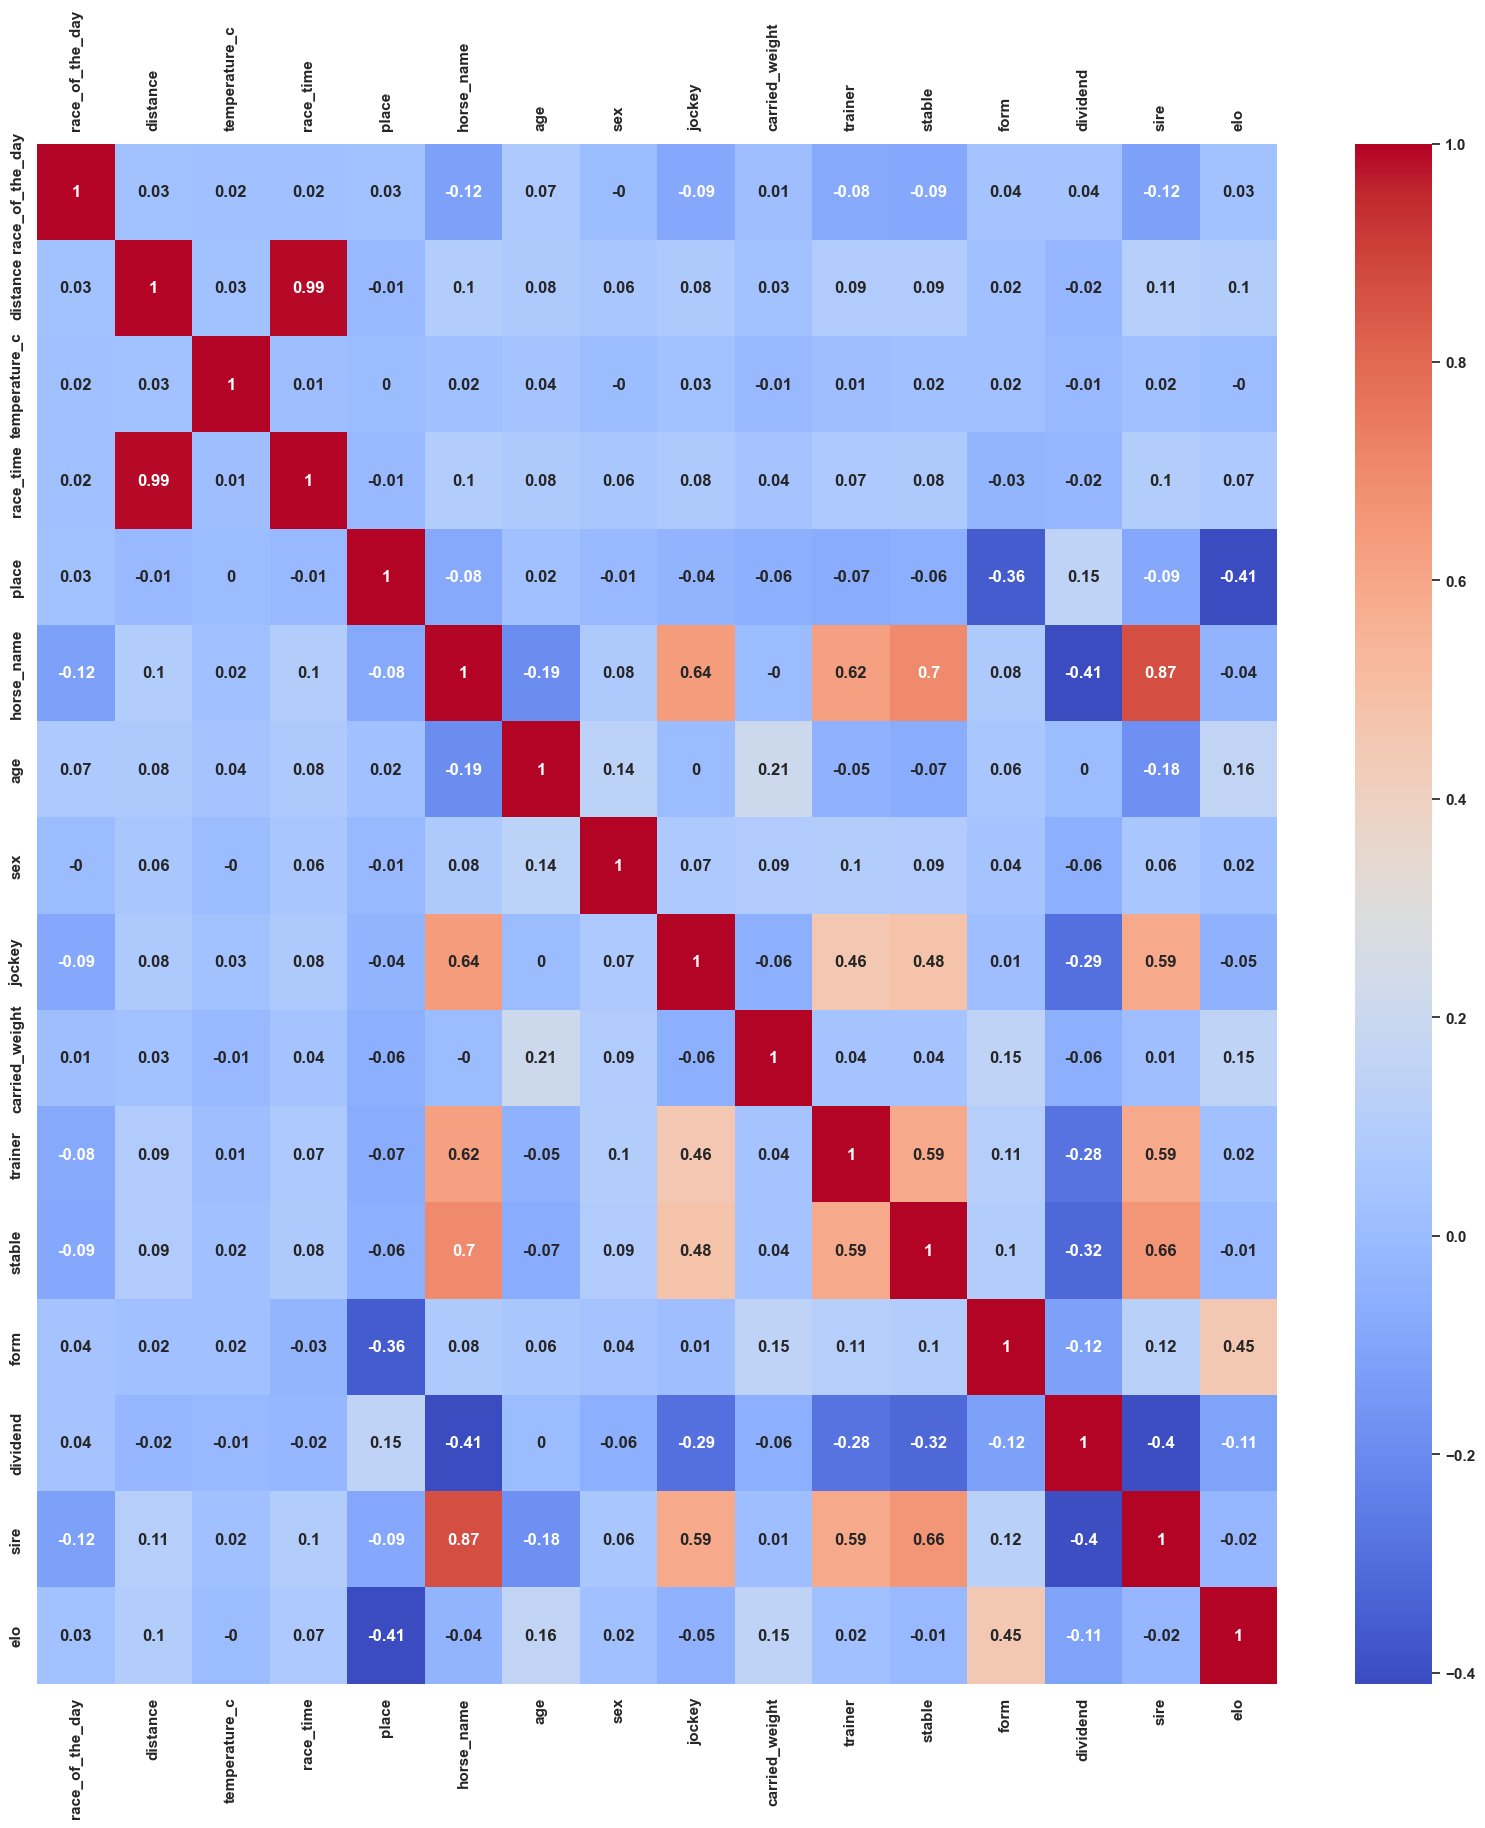
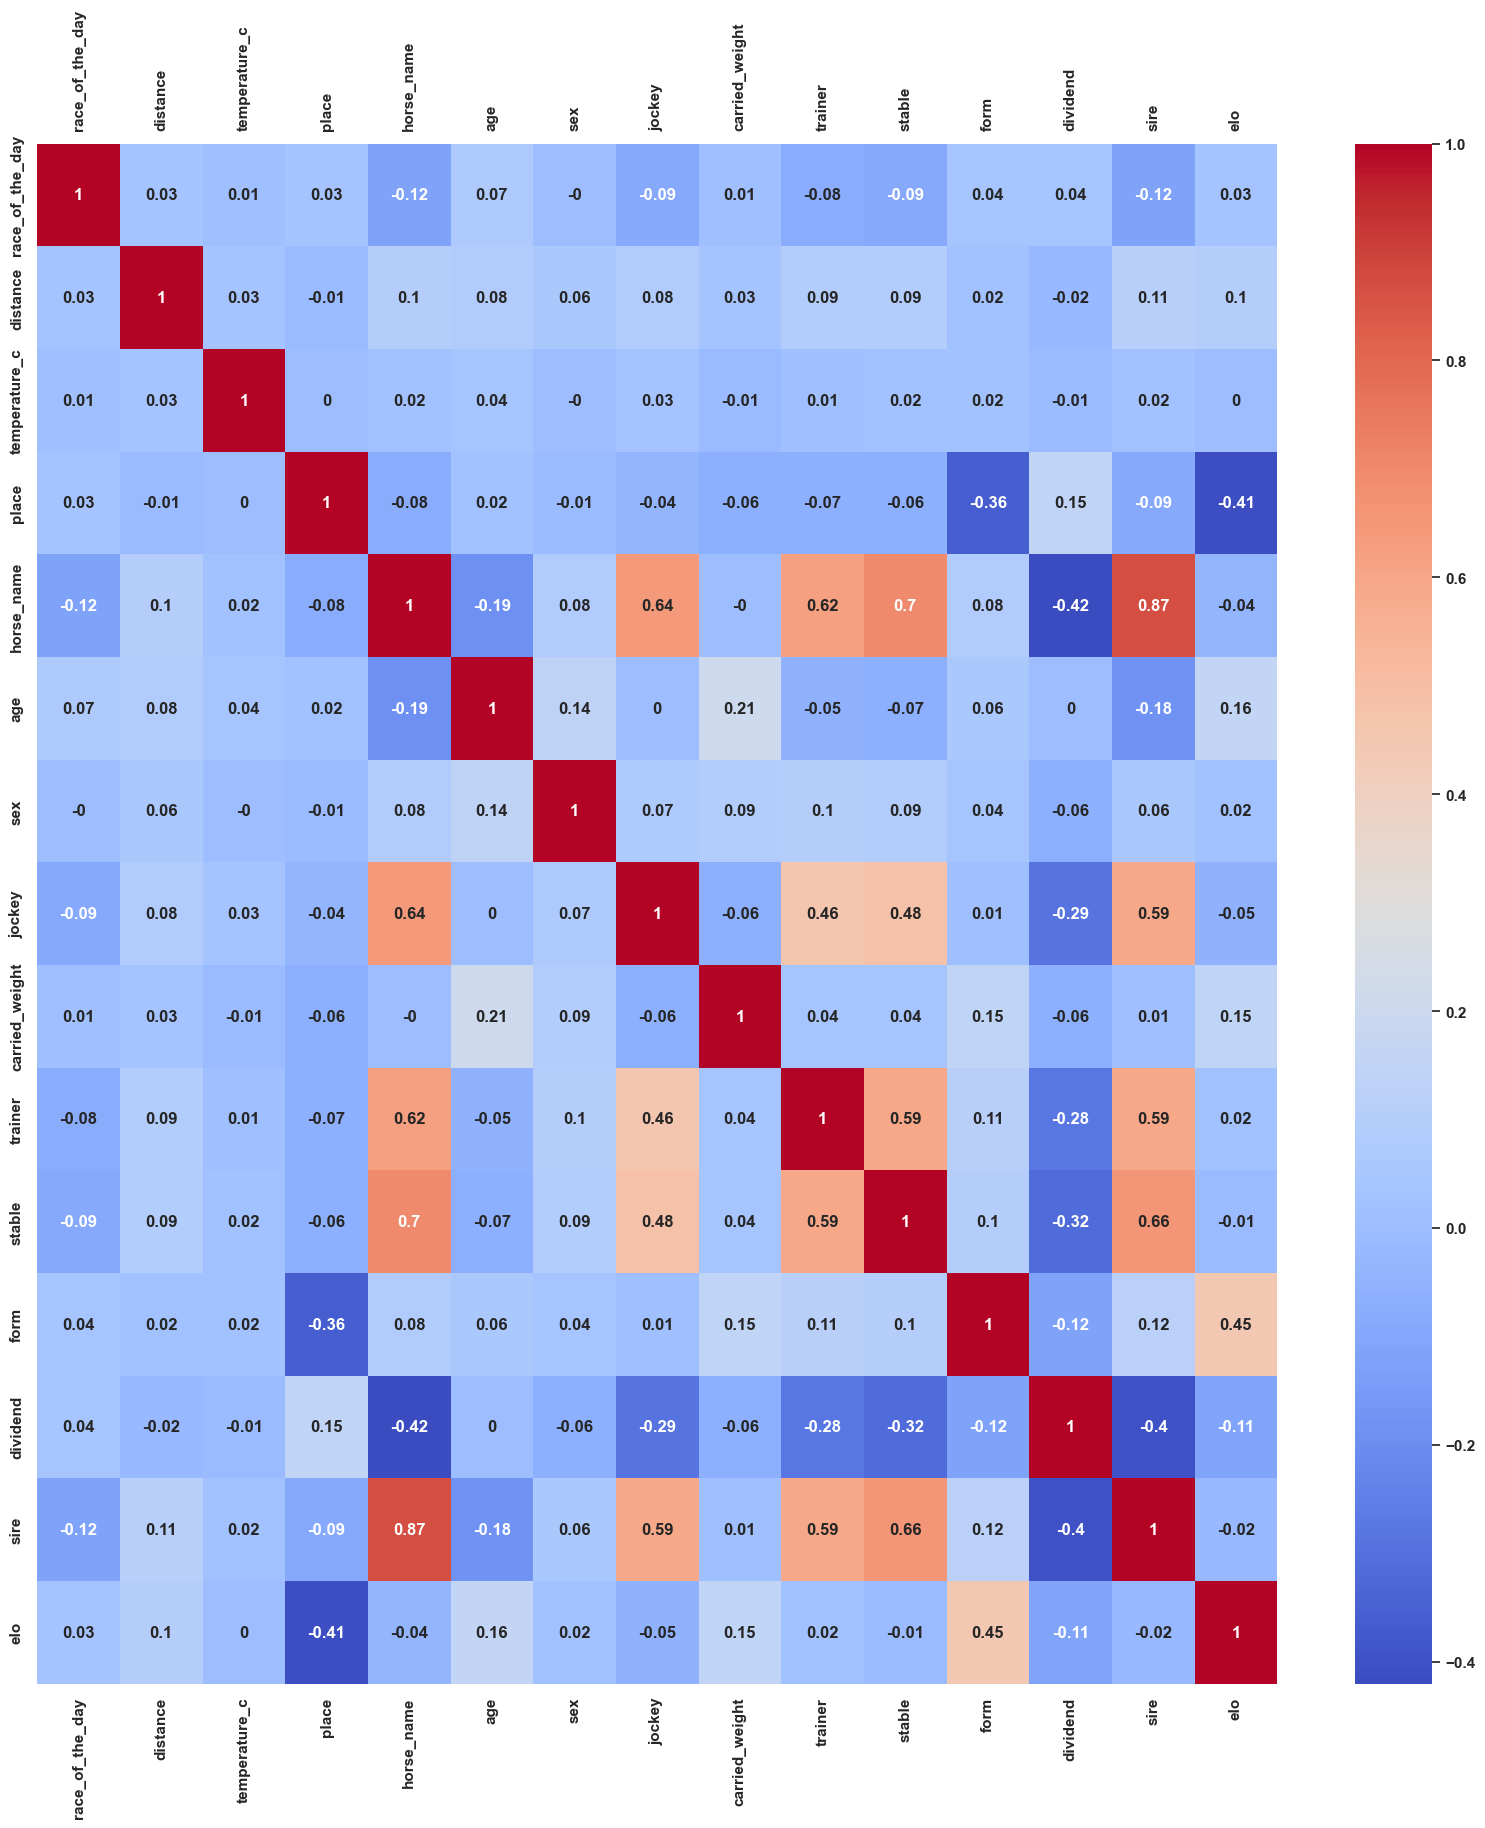
Changing to classification

diff --git a/preprocessing.py b/preprocessing.py
@@ -11,7 +11,8 @@ def preprocess_data(data) -> pd.DataFrame:
   'date',
   'start_time',
   'versenykiiras',
-  'race_name', 
+  'race_name',
+  'race_time',
   'versenydij', 
   'program_number', 
   'color',
@@ -19,16 +20,13 @@ def preprocess_data(data) -> pd.DataFrame:
   'dam'], 
   inplace=True)
 
-  # @TODO Try to fill the nullish values (race_time), instead of masking
-  # print(results.isnull().sum()) # Should check nan as well
-
   data['race_of_the_day'] = data['race_of_the_day'].apply(conversion, args=(place_match,))
   data['place'] = data['place'].apply(conversion, args=(place_match,))
   data['place'] = data.loc[data['place'] > 0, ['place']]
   data = data[data['place'].notna()]
   data['sex'] = data['sex'].apply(conversion, args=(sex_match,))
-  data['race_time'] = data['race_time'].apply(parse_race_time)  
-  data = data[data['race_time'].notna()]
+  # data['race_time'] = data['race_time'].apply(parse_race_time)  
+  # data = data[data['race_time'].notna()]
   data['elo'] = 2000
 
   data = calc_elos(data)
@@ -88,12 +86,14 @@ def vectorize_data(dataframe):
   horses = {}
   for _, row in dataframe.iterrows():
     horse = row['horse_name']
-    time = row['race_time']
+    place = row['place']
 
     race_vector = np.append(
-          row.drop(["horse_name", "race_time"]).to_numpy(),
-          time
+          row.drop(["horse_name", "place"]).to_numpy(),
+          place
       )
+    
+    print(race_vector)
 
     if horse in horses:
         horses[horse].append(race_vector)

diff --git a/nn_training.py b/nn_training.py
@@ -34,12 +34,12 @@ def nnTraining(dataset, output_size):
   input_size = CustomDataset.input_size
   hidden_size = 64
   num_layers = 2
-  output_size = 1
+  output_size = 6
   learning_rate = 0.001
   device = torch.device('cuda' if torch.cuda.is_available() else 'cpu')
 
   model = CustomModel(input_size, hidden_size, num_layers, output_size, device).to(device)
-  lossfn = nn.MSELoss()
+  lossfn = nn.CrossEntropyLoss()
   optimizer = optim.Adam(model.parameters(), lr=learning_rate)
 
   '''Trainin loop with early stopping'''
@@ -88,7 +88,7 @@ def do_training(model, lossfn, optimizer, dataloader):
     model.train()
     optimizer.zero_grad()
     outputs = model(x_batch, lengths)
-    loss = lossfn(outputs.squeeze(-1), y_batch)
+    loss = lossfn(outputs, y_batch)
     loss.backward()
     optimizer.step()
 
@@ -99,7 +99,7 @@ def do_validation(model, lossfn, dataLoader):
   with torch.no_grad():
     for x_batch, lengths, y_batch in dataLoader:
       val_outputs = model(x_batch, lengths)
-      val_loss = lossfn(val_outputs.squeeze(-1), y_batch)
+      val_loss = lossfn(val_outputs, y_batch)
 
   return val_loss
 

diff --git a/custom_model.py b/custom_model.py
@@ -14,8 +14,8 @@ class CustomModel(nn.Module):
 
   def forward(self, x, lengths):
     '''Initial hidden and cell states'''
-    h0 = torch.zeros(self.num_layers, x.size(0), self.hidden_size).to(self.device)
-    c0 = torch.zeros(self.num_layers, x.size(0), self.hidden_size).to(self.device)
+    h0 = torch.zeros(self.num_layers, x.size(0), self.hidden_size).to(x.device)
+    c0 = torch.zeros(self.num_layers, x.size(0), self.hidden_size).to(x.device)
 
     '''Forward propagate LSTM without the PAD steps'''
     packed = pack_padded_sequence(x, lengths.cpu(), batch_first=True, enforce_sorted=False)

diff --git a/custom_dataset.py b/custom_dataset.py
@@ -14,6 +14,8 @@ class CustomDataset(Dataset):
   def __getitem__(self, index):
     curr_data = self.dataset[index]
     input_sequence = torch.tensor([race[:-1] for race in curr_data], dtype=torch.float32)
-    target_val = torch.tensor(curr_data[-1][-1], dtype=torch.float32)
+    place = int(curr_data[-1][-1])
+    target_class = place if 1 <= place <= 5 else 0
+    target_val = torch.tensor(target_class, dtype=torch.long)
     return input_sequence, target_val
     

diff --git a/horzie.py b/horzie.py
@@ -15,6 +15,7 @@ sns.set_theme(context='notebook', style='darkgrid', palette='deep', font='sans-s
 ax = sns.heatmap(data.corr(numeric_only=True).round(2), annot=True, cmap="coolwarm")
 plt.savefig('./docs/corr.png', bbox_inches='tight')
 
+print(data.columns.tolist())
 dataset = vectorize_data(data)
 
 nnTraining(dataset=dataset, output_size=len(set(place_match.values())))

diff --git a/elo_calc.py b/elo_calc.py
@@ -107,4 +107,3 @@ def calc_riders(riders):
             results = elo_rating(player1elo=p1['elo'], player2elo=p2['elo'], K=30, outcome=1)
             p1['elo'] = results[0]['elo']
             p2['elo'] = results[1]['elo']
-            print(p1['elo'])

diff --git a/README.md b/README.md
@@ -7,7 +7,7 @@ This repository documents my journey — from raw data to classification models,
 
 ## 🎯 What Do I Do?
 
-I learn from historical horse racing data (Kincsem Park, 2003–2025) and try to predict the finishing position of each horse.
+I learn from historical horse racing data (Kincsem Park, 2003–2025) and try to predict whether a horse will finish in the top 5, and if so, at which position.
 
 Currently, I extract a large number of input features — probably too many, honestly — and feed them into a classification neural network that tries to learn patterns from:
 
@@ -36,12 +36,20 @@ You will see later in this document, but it's in plan to give me as up to date d
 
 ## 🧠 Model Architecture
 
-My "brain" is a combination of an LSTM and a regression head.
+My "brain" is a **sequence-based classification model built on an LSTM**.
 
-The idea is to analyze each horse's performance race by race, as a sequence.  
-For every horse, I feed its past races (with their features) into an LSTM.  
-From the last hidden state of the LSTM, I apply a linear layer to predict that horse's race time.  
-Once I have a predicted race time for each horse in a race, I can rank them and pick the five fastest.
+The idea is to analyze each horse’s historical performance **race by race, as a sequence**, and predict whether that horse will finish in the **top 5** in its next race.
+
+For every horse:
+
+- Past races are fed sequentially into an LSTM
+- The **last hidden state** represents the horse’s current form
+- A fully connected layer produces **class logits** for finishing positions
+
+Classes are defined as:
+
+- `0` → not in top 5
+- `1–5` → exact finishing position
 
 ```python
 class CustomModel(nn.Module):
@@ -50,31 +58,30 @@ class CustomModel(nn.Module):
     self.device = device
     self.hidden_size = hidden_size
     self.num_layers = num_layers
-    self.last_ht = None
     self.lstm = nn.LSTM(input_size, hidden_size, num_layers, batch_first=True)
     self.fc = nn.Linear(hidden_size, output_size)
 ```
 
-To make this work, I need the data in a special format:
+To make sequence learning possible, the dataset is structured by **horse**, not by race.
 
-- The dataset is a list of horses.
-- Each horse is represented by a sequence (list) of races.
-- Each race is a feature vector containing the race attributes (distance, jockey, trainer, sire, etc.) plus the race time as the target value.
+- The dataset is a list of horses
+- Each horse is represented by a sequence of its past races
+- Each race is a feature vector describing race conditions and metadata
 
 So the structure looks like this:
 
 ```
 [ # horse 1
-  [ race_1_feature1, race_1_feature2, ..., race_1_featureK, race_time ],
-  [ race_2_feature1, race_2_feature2, ..., race_2_featureK, race_time ],
+  [ race_1_feature1, race_1_feature2, ..., race_1_featureK, place ],
+  [ race_2_feature1, race_2_feature2, ..., race_2_featureK, place ],
   ...
 ]
 ```
 
 During training:
 
-- The input to the LSTM is all features except race time.
-- The target is the race time of the last race in the sequence.
+- **Inputs**: all race features except `place`
+- **Target**: the finishing position (`place`) of the **last race**
 
 However, horses have **different numbers of past races**, which means their
 input sequences are not the same length.  
@@ -94,22 +101,28 @@ racing histories.
 
 Here’s how the loss developed during my first major training run:
 
-![First loss over epochs](./docs/loss.png "First loss over epochs")
+![First loss over epochs with regression](./docs/loss.png "First loss over epochs with regression")
 
-The model was trained using MSELoss, which penalizes the squared difference between the predicted race time and the real race time.
-Because race times are measured in seconds, the raw loss values represent seconds².
+When the above training was run, I was using regression instead of classification.
 
-During the best point of training, the validation MSE dropped to roughly `≈ 780 seconds²`
-To convert this into something meaningful, we take the square root (RMSE): `RMSE = √780 ≈ 28 seconds`
+The model is trained using **CrossEntropyLoss**, appropriate for multi-class classification.
+This loss measures how confident the model is about the correct finishing class.
 
-This tells us:
-
-On average, the model's predicted race time is off by about `±28 seconds`.
-Given that typical race times are around 70–150 seconds, this corresponds to roughly: `Error ≈ 20–40%`
-
-Since then, my latest training looks like the following:
+Here’s how the loss evolved during training:
 
 ![Latest loss over epochs](./docs/loss_latest.png "Latest loss over epochs")
+
+Key observations:
+
+- Training and validation loss track each other closely → no obvious overfitting
+- Final loss settles around `~1.0–1.2`
+
+For a 6-class problem (0–5), random guessing would yield:
+`Loss ≈ ln(6) ≈ 1.79`
+
+So a validation loss near `1.1` indicates the model is **significantly better than random**, despite the inherent noise of horse racing.
+
+This confirms that the model is learning **meaningful structure**, even in a highly unpredictable domain.
 
 ## 🚀 Plans for the Future
 
